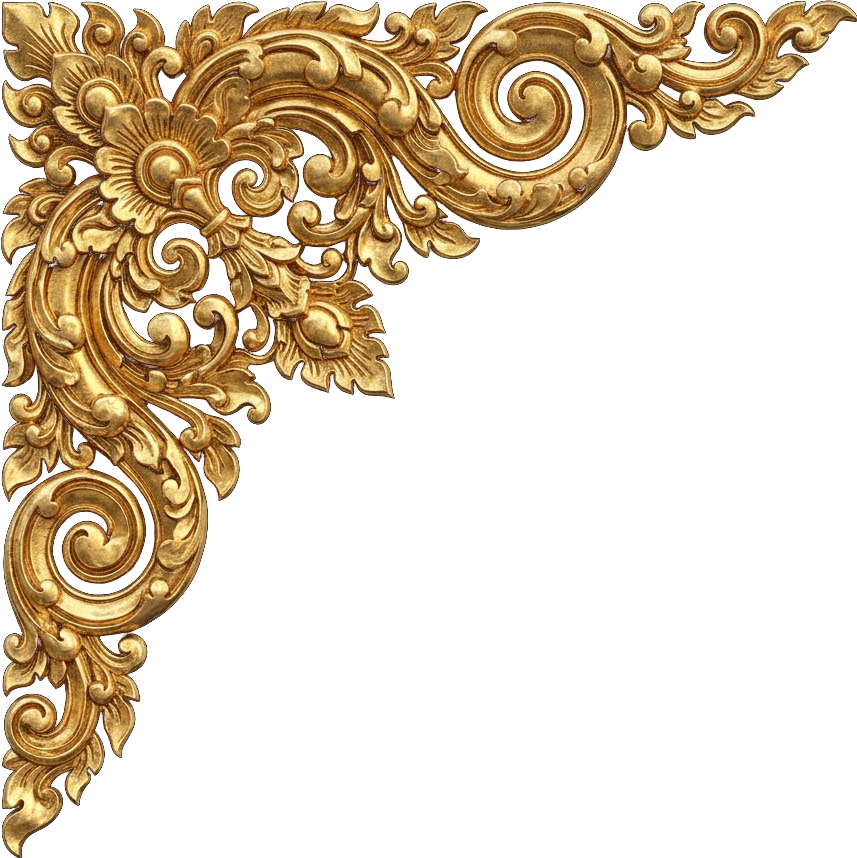
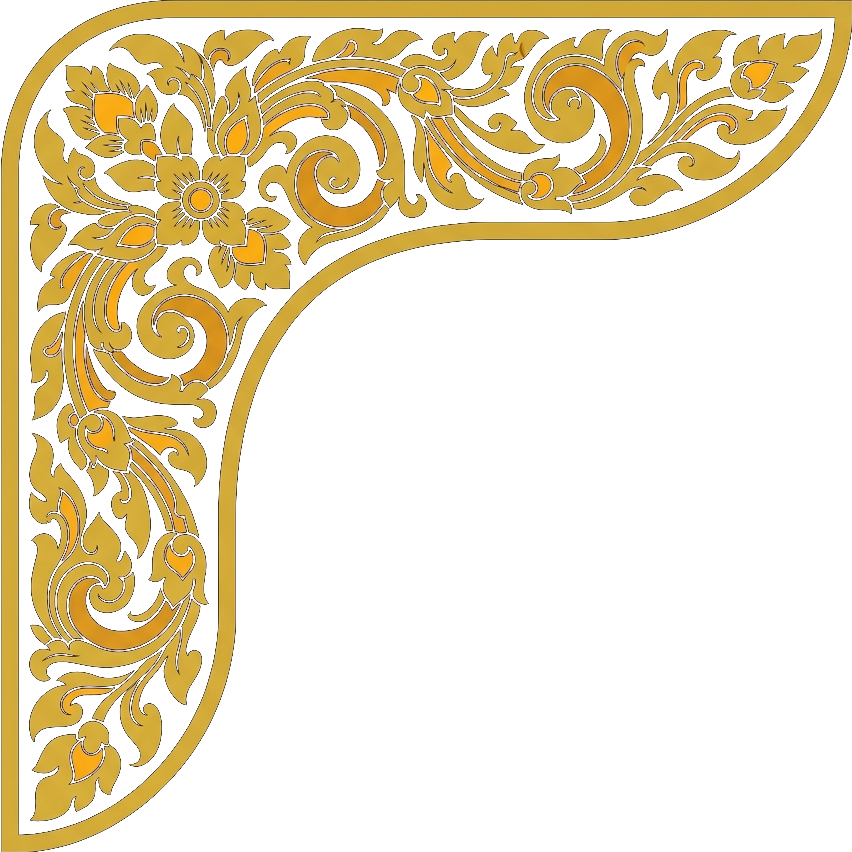
fix(typography-corner): fix Khmer number font by removing font-mono and using Kantumruy Pro; redesign corner kbach with flat style and rounded outer arc

diff --git a/public/css/style.css b/public/css/style.css
@@ -108,36 +108,36 @@ body.theme-khmer-traditional .khmer-corner-bl,
 body.theme-khmer-traditional .khmer-corner-br {
   display: block !important;
   border: none !important;
-  width: 48px !important;
-  height: 48px !important;
+  width: 56px !important;
+  height: 56px !important;
   background-image: url('/images/components/khmer-corner.png') !important;
   background-size: contain !important;
   background-repeat: no-repeat !important;
   background-position: center !important;
   pointer-events: none !important;
-  filter: drop-shadow(0 2px 4px rgba(140, 29, 47, 0.2)) !important;
+  filter: drop-shadow(0 1px 3px rgba(212, 175, 55, 0.25)) !important;
   z-index: 2 !important;
 }
 body.theme-khmer-traditional .khmer-corner-tl {
-  top: 4px !important;
-  left: 4px !important;
+  top: 3px !important;
+  left: 3px !important;
   transform: none !important;
 }
 body.theme-khmer-traditional .khmer-corner-tr {
-  top: 4px !important;
-  right: 4px !important;
+  top: 3px !important;
+  right: 3px !important;
   left: auto !important;
   transform: scaleX(-1) !important;
 }
 body.theme-khmer-traditional .khmer-corner-bl {
-  bottom: 4px !important;
-  left: 4px !important;
+  bottom: 3px !important;
+  left: 3px !important;
   top: auto !important;
   transform: scaleY(-1) !important;
 }
 body.theme-khmer-traditional .khmer-corner-br {
-  bottom: 4px !important;
-  right: 4px !important;
+  bottom: 3px !important;
+  right: 3px !important;
   top: auto !important;
   left: auto !important;
   transform: scale(-1, -1) !important;
@@ -177,7 +177,9 @@ body.theme-khmer-traditional .countdown-box {
 }
 body.theme-khmer-traditional .countdown-box span:first-child {
   color: #8C1D2F !important;
-  font-family: 'Moul', cursive !important;
+  font-family: 'Kantumruy Pro', 'Battambang', sans-serif !important;
+  font-weight: 700 !important;
+  letter-spacing: 1px !important;
 }
 
 /* Khmer Envelope & Wax Seal */
@@ -761,41 +763,49 @@ body.theme-chinese-traditional .floating-music-btn {
   pointer-events: none;
 }
 
-/* Khmer Floral Corner Motif - Authentic Khmer Kbach PNG */
+/* Khmer Floral Corner Motif - Authentic Flat Khmer Kbach PNG with Rounded Outer Corner */
 .khmer-corner-tl,
 .khmer-corner-tr,
 .khmer-corner-bl,
 .khmer-corner-br {
   position: absolute;
-  width: 44px;
-  height: 44px;
+  width: 54px;
+  height: 54px;
   background-image: url('/images/components/khmer-corner.png');
   background-size: contain;
   background-repeat: no-repeat;
   border: none;
   pointer-events: none;
   z-index: 2;
-  filter: drop-shadow(0 2px 4px rgba(197, 160, 89, 0.25));
+  filter: drop-shadow(0 1px 2px rgba(197, 160, 89, 0.2));
 }
 .khmer-corner-tl {
-  top: 4px;
-  left: 4px;
+  top: 3px;
+  left: 3px;
   transform: none;
 }
 .khmer-corner-tr {
-  top: 4px;
-  right: 4px;
+  top: 3px;
+  right: 3px;
   transform: scaleX(-1);
 }
 .khmer-corner-bl {
-  bottom: 4px;
-  left: 4px;
+  bottom: 3px;
+  left: 3px;
   transform: scaleY(-1);
 }
 .khmer-corner-br {
-  bottom: 4px;
-  right: 4px;
+  bottom: 3px;
+  right: 3px;
   transform: scale(-1, -1);
+}
+
+/* Khmer Numbers Typography: Modern & Legible Glyphs */
+.font-khmer-num,
+#groom-acc-num,
+#bride-acc-num {
+  font-family: 'Kantumruy Pro', 'Battambang', sans-serif !important;
+  letter-spacing: 0.5px !important;
 }
 
 /* Countdown Clock Card */

diff --git a/public/index.html b/public/index.html
@@ -388,7 +388,7 @@
           </div>
           <h5 id="groom-bank-name" class="text-xs font-bold text-[#4E3227]">ABA Bank / KHQR</h5>
           <p id="groom-acc-name" class="text-xs font-semibold text-[#7A6F68] uppercase mt-0.5">CHAN NARAK</p>
-          <p id="groom-acc-num" class="text-sm font-mono font-bold text-[#4E3227] my-1">001 888 999 (USD)</p>
+          <p id="groom-acc-num" class="text-base font-khmer-num font-bold text-[#4E3227] my-1 tracking-wider">001 888 999 (USD)</p>
           <button id="btn-copy-groom-acc" class="mt-2 text-xs px-3 py-1 bg-white hover:bg-gray-50 border border-[#E5D5BC] rounded-full text-[#4E3227] font-medium shadow-2xs inline-flex items-center gap-1">
             <svg class="w-3.5 h-3.5 text-[#C5A059]" fill="none" stroke="currentColor" viewBox="0 0 24 24"><path stroke-linecap="round" stroke-linejoin="round" stroke-width="2" d="M8 16H6a2 2 0 01-2-2V6a2 2 0 012-2h8a2 2 0 012 2v2m-6 12h8a2 2 0 002-2v-8a2 2 0 00-2-2h-8a2 2 0 00-2 2v8a2 2 0 002 2z"/></svg>
             <span data-kh="ចម្លងលេខគណនី" data-en="Copy Number">ចម្លងលេខគណនី</span>
@@ -403,7 +403,7 @@
           </div>
           <h5 id="bride-bank-name" class="text-xs font-bold text-[#4E3227]">Bakong / ACLEDA</h5>
           <p id="bride-acc-name" class="text-xs font-semibold text-[#7A6F68] uppercase mt-0.5">LY SREYMECH</p>
-          <p id="bride-acc-num" class="text-sm font-mono font-bold text-[#4E3227] my-1">012 345 678 (USD)</p>
+          <p id="bride-acc-num" class="text-base font-khmer-num font-bold text-[#4E3227] my-1 tracking-wider">012 345 678 (USD)</p>
           <button id="btn-copy-bride-acc" class="mt-2 text-xs px-3 py-1 bg-white hover:bg-gray-50 border border-[#E5D5BC] rounded-full text-[#4E3227] font-medium shadow-2xs inline-flex items-center gap-1">
             <svg class="w-3.5 h-3.5 text-[#C5A059]" fill="none" stroke="currentColor" viewBox="0 0 24 24"><path stroke-linecap="round" stroke-linejoin="round" stroke-width="2" d="M8 16H6a2 2 0 01-2-2V6a2 2 0 012-2h8a2 2 0 012 2v2m-6 12h8a2 2 0 002-2v-8a2 2 0 00-2-2h-8a2 2 0 00-2 2v8a2 2 0 002 2z"/></svg>
             <span data-kh="ចម្លងលេខគណនី" data-en="Copy Number">ចម្លងលេខគណនី</span>
